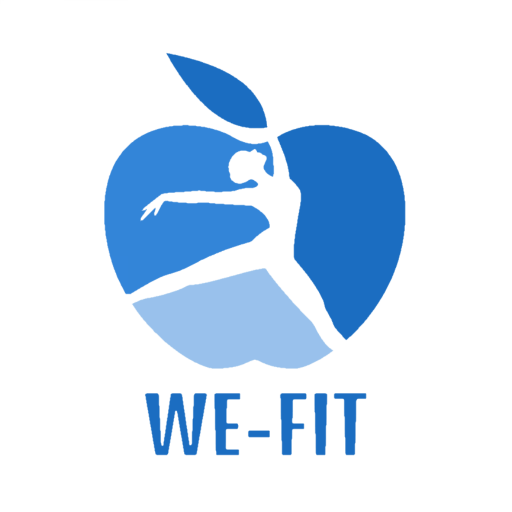
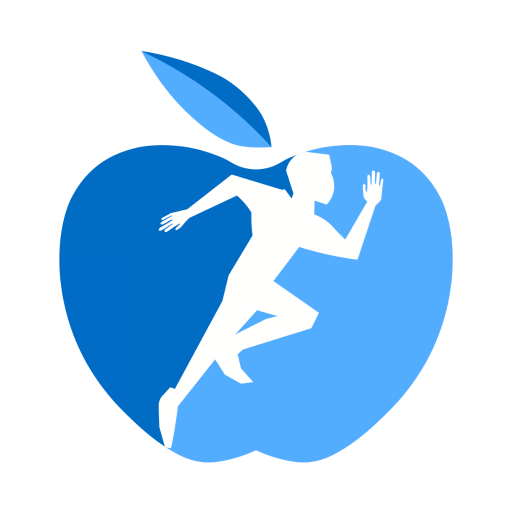
Aggiornata icona app.

diff --git a/app/src/main/java/it/uniba/di/sms2021/gruppodkl/wefit/fragment/client/ClientRunFragment.java b/app/src/main/java/it/uniba/di/sms2021/gruppodkl/wefit/fragment/client/ClientRunFragment.java
@@ -160,7 +160,7 @@ public class ClientRunFragment extends Fragment implements ClientRunContract.Vie
 
     @Override
     public void lastRunEmpty() {
-
+        //TODO da implementare
     }
 
 }
